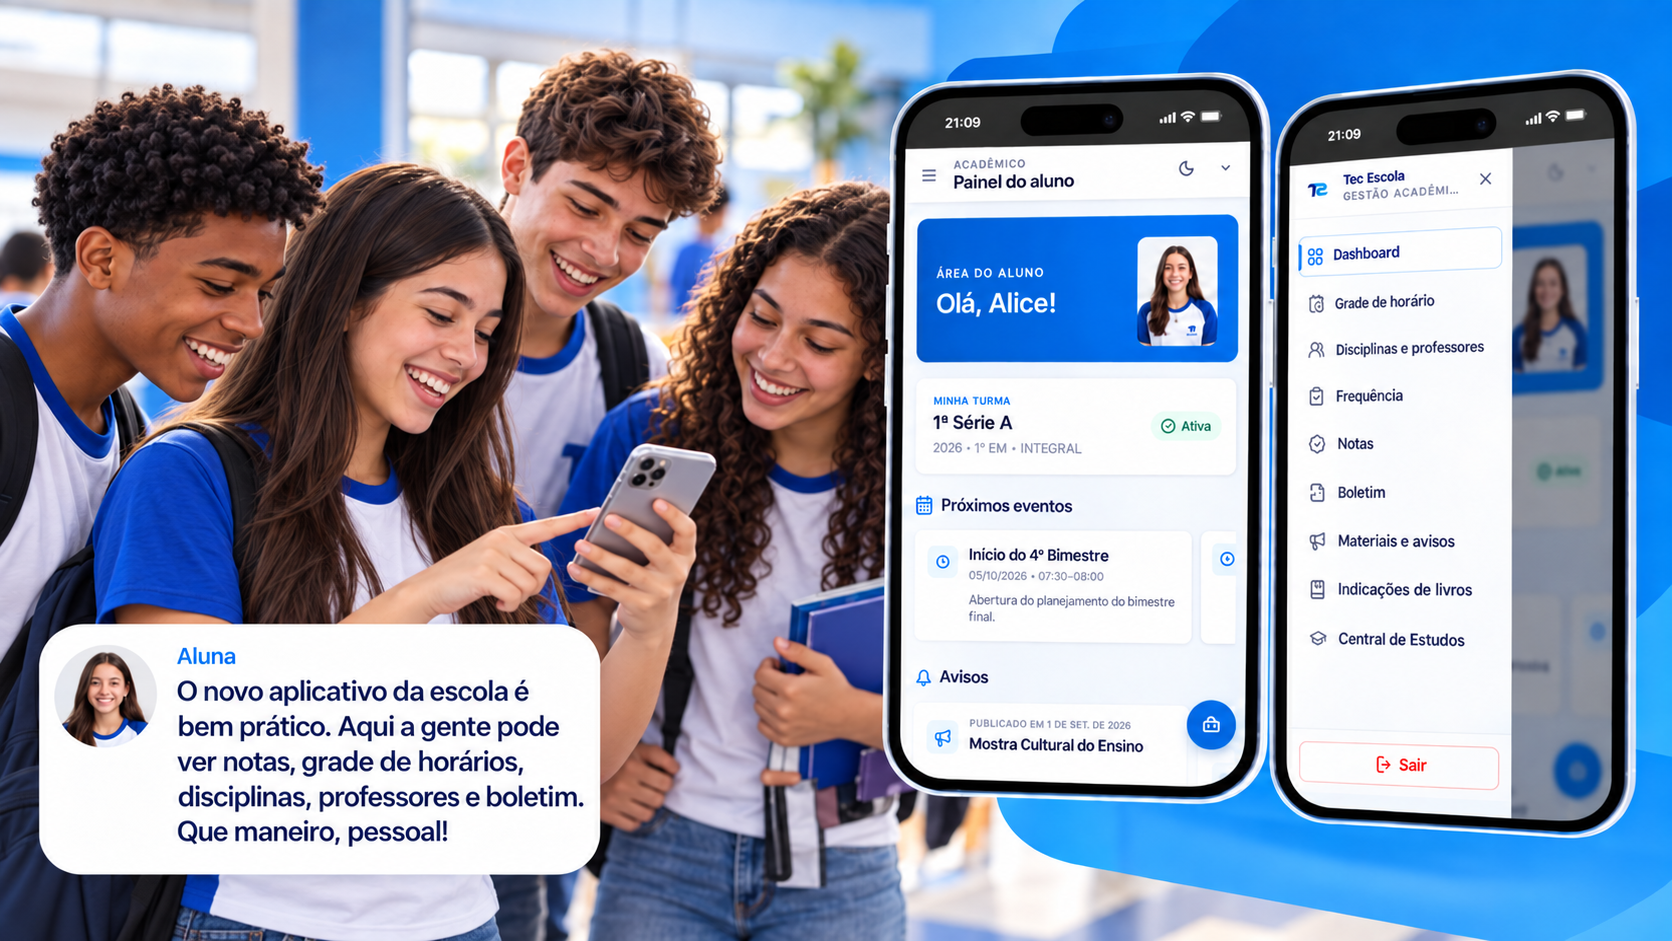
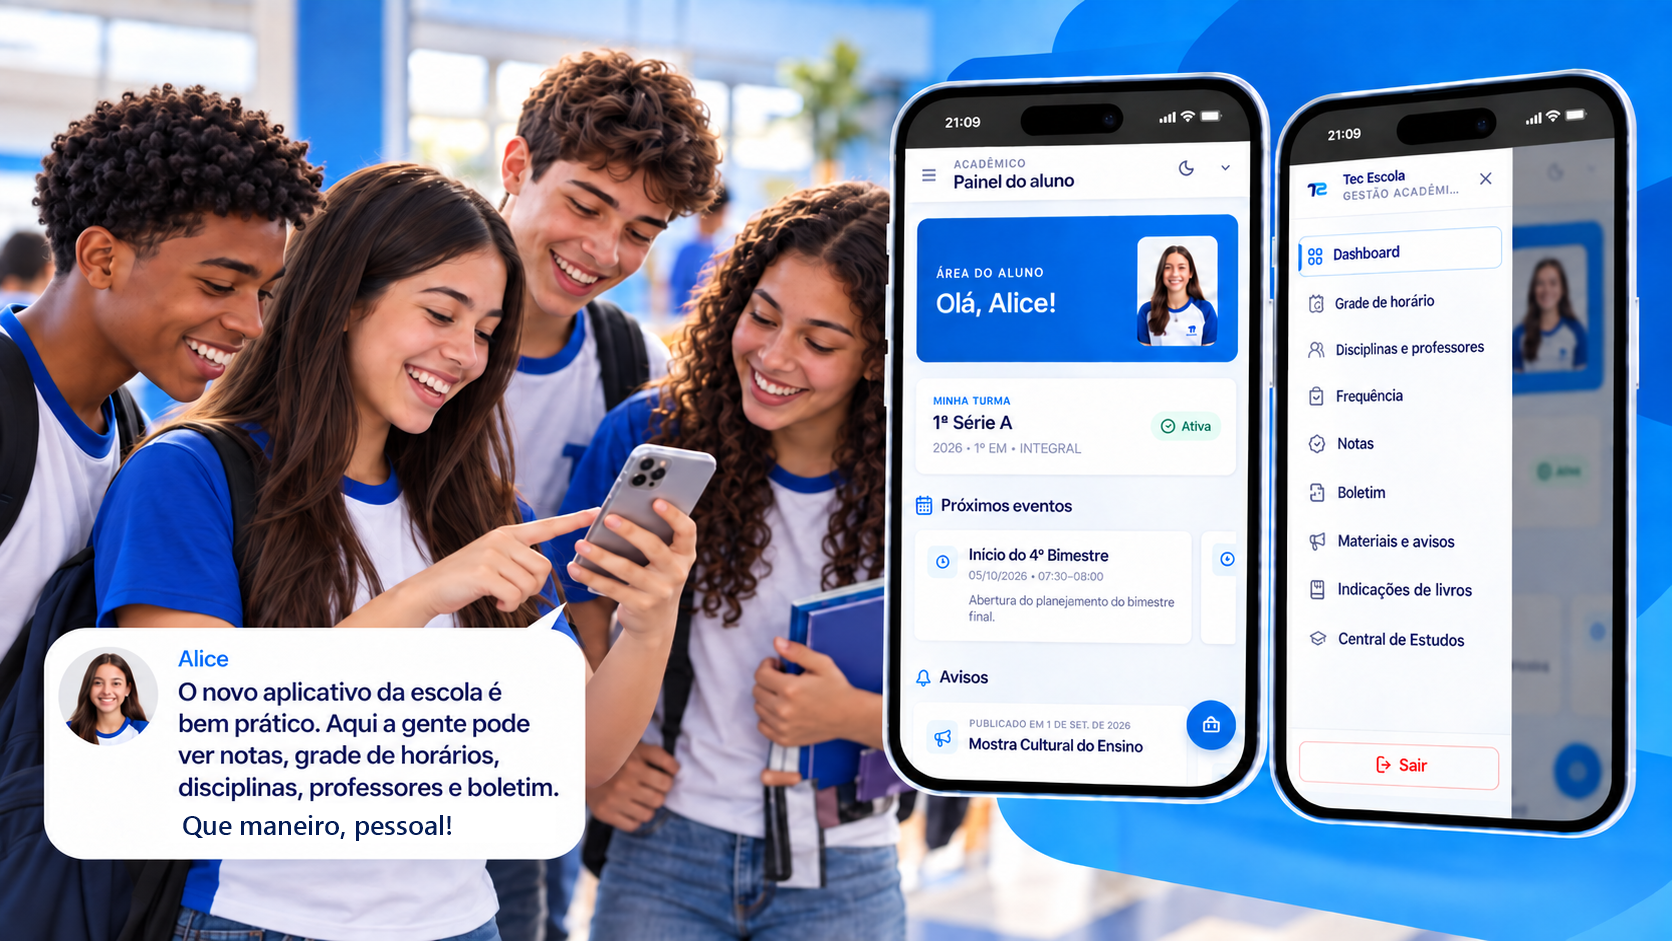
fix Alice testimonial copy

diff --git a/styles.css b/styles.css
@@ -213,7 +213,7 @@ h3 { font-size: 21px; line-height: 1.1; }
 .center-heading { max-width: 690px; margin: 0 auto 58px; text-align: center; }
 .light-heading h2 { color: white; }
 .profile-section { position: relative; isolation: isolate; overflow: hidden; padding: clamp(64px, 6.2vw, 88px) 0; background: #071c58; }
-.profile-section::before { position: absolute; inset: 0; z-index: 0; width: 100%; background: url("./assets/alunos-app-hero.png?v=profiles-students-app-2") center center / cover no-repeat; content: ""; opacity: .94; pointer-events: none; }
+.profile-section::before { position: absolute; inset: 0; z-index: 0; width: 100%; background: url("./assets/alunos-app-hero.png?v=profiles-students-app-alice") center center / cover no-repeat; content: ""; opacity: .94; pointer-events: none; }
 .profile-section::after { position: absolute; inset: 0; z-index: 1; background: linear-gradient(180deg, rgba(7,28,88,.03) 0%, rgba(7,28,88,.04) 40%, rgba(7,28,88,.07) 58%, rgba(7,28,88,.11) 78%, rgba(7,28,88,.16) 100%), linear-gradient(90deg, rgba(7,28,88,0) 0%, rgba(7,28,88,.03) 44%, rgba(7,28,88,.58) 72%, rgba(7,28,88,.78) 100%); content: ""; pointer-events: none; }
 .profile-shell { position: relative; z-index: 2; display: grid; grid-template-columns: minmax(0, .82fr) minmax(0, 1.18fr); align-items: center; gap: clamp(36px, 5vw, 80px); min-height: 560px; }
 .profile-section .center-heading { position: relative; z-index: 0; grid-column: 2; max-width: 650px; margin: 0 0 34px; text-align: left; }
